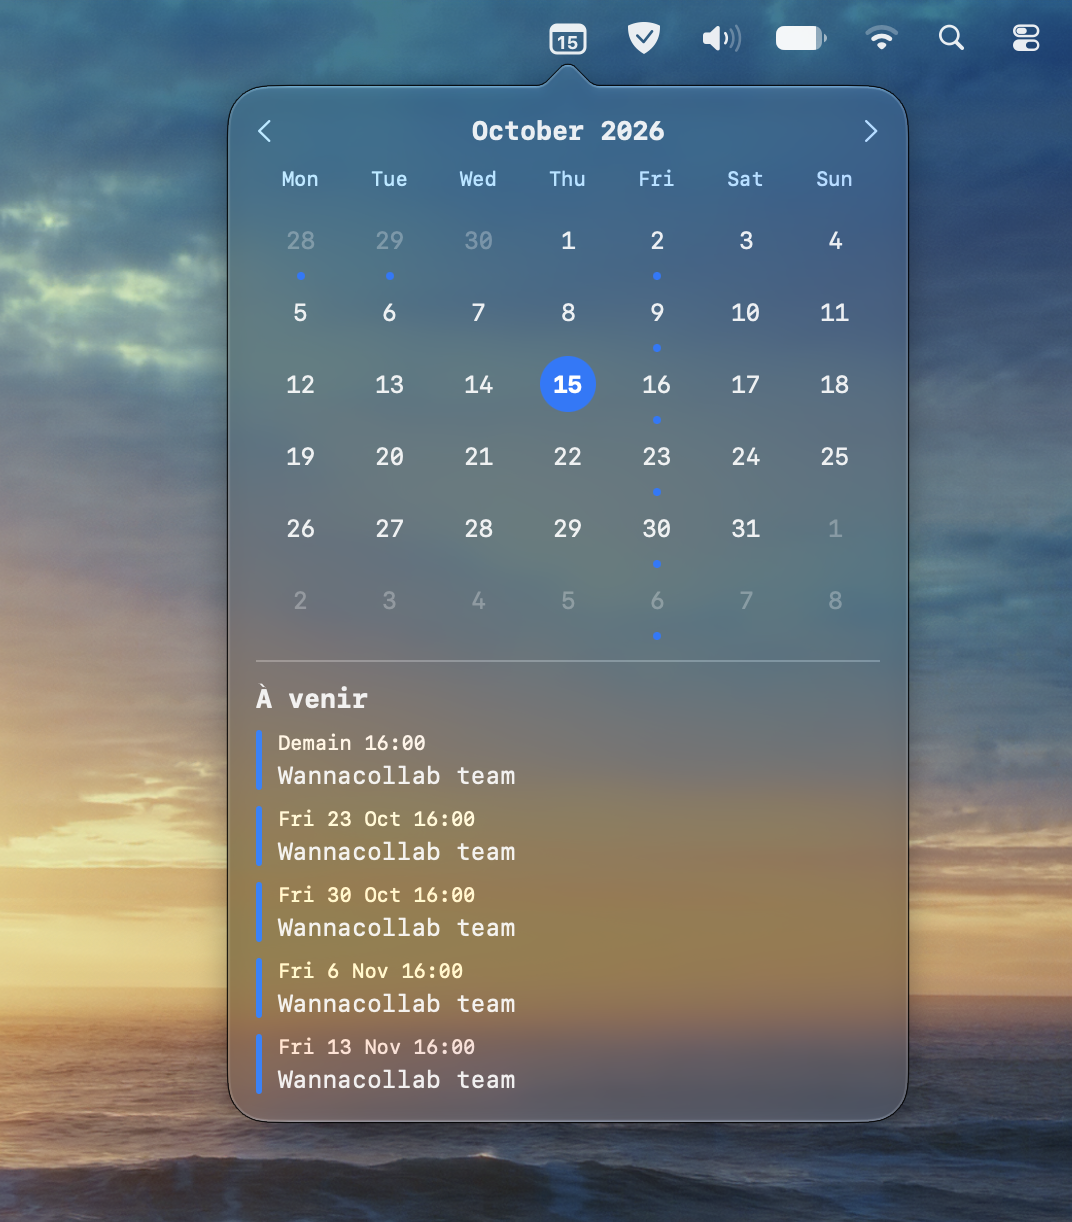
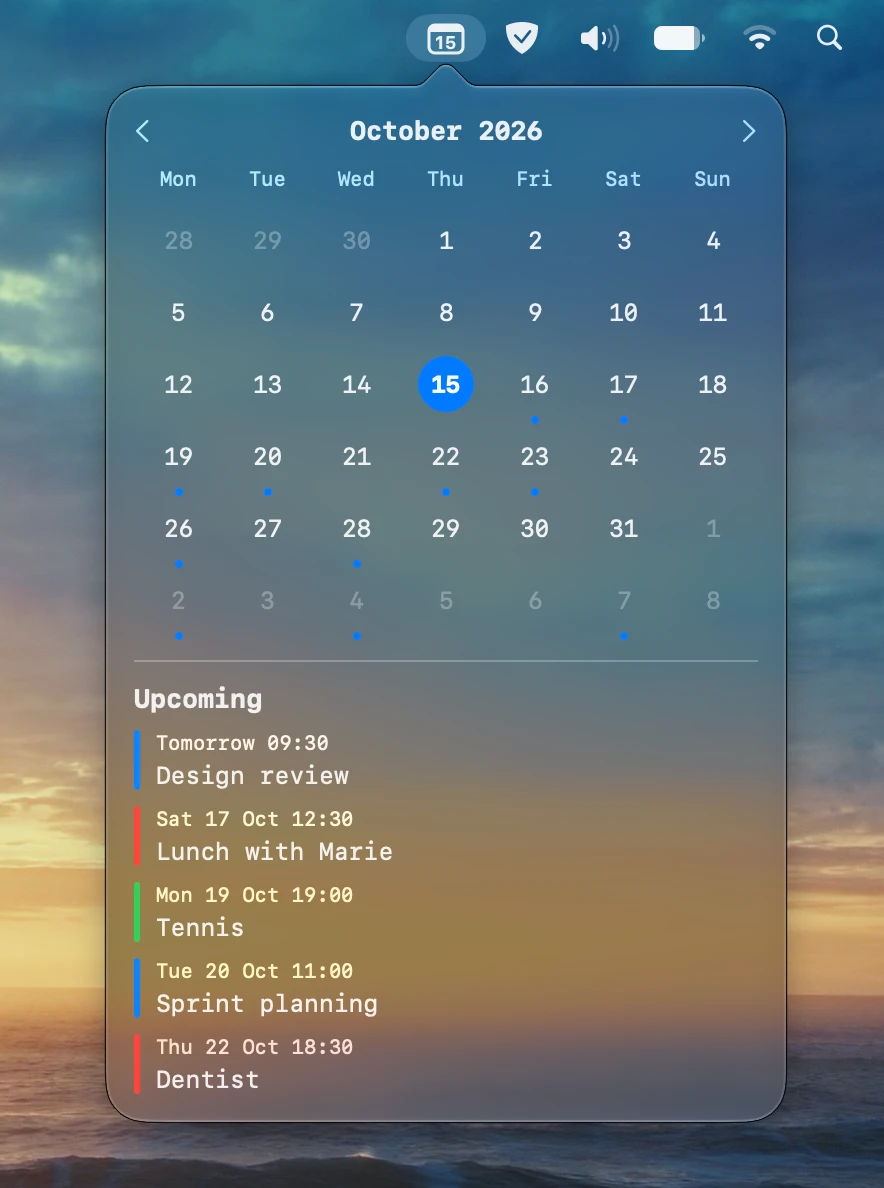
App UI in English; README screenshot with demo data

diff --git a/Sources/main.swift b/Sources/main.swift
@@ -70,20 +70,20 @@ final class AppDelegate: NSObject, NSApplicationDelegate, NSPopoverDelegate {
         let menu = NSMenu()
         let feeds = FeedStore.load()
         if feeds.isEmpty {
-            menu.addItem(NSMenuItem(title: "Aucun agenda", action: nil, keyEquivalent: ""))
+            menu.addItem(NSMenuItem(title: "No calendars", action: nil, keyEquivalent: ""))
         }
         for f in feeds {
-            let item = NSMenuItem(title: "Retirer « \(f.name.isEmpty ? f.url : f.name) »", action: #selector(removeFeed(_:)), keyEquivalent: "")
+            let item = NSMenuItem(title: "Remove “\(f.name.isEmpty ? f.url : f.name)”", action: #selector(removeFeed(_:)), keyEquivalent: "")
             item.representedObject = f.url
             item.target = self
             item.image = swatch(f.colorHex)
             menu.addItem(item)
         }
         menu.addItem(.separator())
-        menu.addItem(withTitle: "Ajouter un agenda iCal…", action: #selector(addFeed), keyEquivalent: "").target = self
-        menu.addItem(withTitle: "Actualiser", action: #selector(refreshNow), keyEquivalent: "r").target = self
+        menu.addItem(withTitle: "Add an iCal calendar…", action: #selector(addFeed), keyEquivalent: "").target = self
+        menu.addItem(withTitle: "Refresh", action: #selector(refreshNow), keyEquivalent: "r").target = self
         menu.addItem(.separator())
-        menu.addItem(withTitle: "Quitter", action: #selector(NSApplication.terminate(_:)), keyEquivalent: "q")
+        menu.addItem(withTitle: "Quit", action: #selector(NSApplication.terminate(_:)), keyEquivalent: "q")
         return menu
     }
 
@@ -102,7 +102,7 @@ final class AppDelegate: NSObject, NSApplicationDelegate, NSPopoverDelegate {
     private func refresh(force: Bool) {
         if !force, Date().timeIntervalSince(lastRefresh) < 30 { return }
         let feeds = FeedStore.load()
-        guard !feeds.isEmpty else { model.status = "Aucun agenda : clic droit → Ajouter un agenda iCal…"; return }
+        guard !feeds.isEmpty else { model.status = "No calendars: right-click → Add an iCal calendar…"; return }
         lastRefresh = Date()
         model.isLoading = true
         let range = model.fetchRange
@@ -119,8 +119,8 @@ final class AppDelegate: NSObject, NSApplicationDelegate, NSPopoverDelegate {
     @objc private func addFeed() {
         NSApp.activate(ignoringOtherApps: true)
         let alert = NSAlert()
-        alert.messageText = "Ajouter un agenda iCal"
-        alert.informativeText = "Google Agenda → Paramètres → l'agenda → « Adresse secrète au format iCal ». Colle l'URL ici (⌘V). Elle est stockée dans ton Trousseau."
+        alert.messageText = "Add an iCal calendar"
+        alert.informativeText = "Google Calendar → Settings → your calendar → “Secret address in iCal format”. Paste the URL here (⌘V). It is stored in your Keychain."
         let box = NSStackView(frame: NSRect(x: 0, y: 0, width: 440, height: 88))
         box.orientation = .vertical
         box.alignment = .leading
@@ -128,7 +128,7 @@ final class AppDelegate: NSObject, NSApplicationDelegate, NSPopoverDelegate {
         let urlField = NSTextField(frame: NSRect(x: 0, y: 0, width: 440, height: 24))
         urlField.placeholderString = "https://calendar.google.com/calendar/ical/…/basic.ics"
         let nameField = NSTextField(frame: NSRect(x: 0, y: 0, width: 440, height: 24))
-        nameField.placeholderString = "Nom (facultatif, sinon celui du flux)"
+        nameField.placeholderString = "Name (optional, defaults to the feed’s)"
         let colorPopup = NSPopUpButton(frame: NSRect(x: 0, y: 0, width: 160, height: 24), pullsDown: false)
         for c in FeedColor.allCases {
             colorPopup.addItem(withTitle: c.rawValue)
@@ -139,16 +139,16 @@ final class AppDelegate: NSObject, NSApplicationDelegate, NSPopoverDelegate {
         urlField.widthAnchor.constraint(equalToConstant: 440).isActive = true
         nameField.widthAnchor.constraint(equalToConstant: 440).isActive = true
         alert.accessoryView = box
-        alert.addButton(withTitle: "Ajouter")
-        alert.addButton(withTitle: "Annuler")
+        alert.addButton(withTitle: "Add")
+        alert.addButton(withTitle: "Cancel")
         alert.window.initialFirstResponder = urlField
         guard alert.runModal() == .alertFirstButtonReturn else { return }
         var urlString = urlField.stringValue.trimmingCharacters(in: .whitespacesAndNewlines)
         if urlString.hasPrefix("webcal://") { urlString = "https://" + urlString.dropFirst("webcal://".count) }
-        guard let url = URL(string: urlString), url.scheme?.hasPrefix("http") == true else { self.alert("URL invalide"); return }
+        guard let url = URL(string: urlString), url.scheme?.hasPrefix("http") == true else { self.alert("Invalid URL"); return }
         let color = FeedColor.allCases[max(colorPopup.indexOfSelectedItem, 0)]
         let feed = Feed(name: nameField.stringValue.trimmingCharacters(in: .whitespacesAndNewlines), url: urlString, colorHex: color.hex)
-        guard FeedStore.add(feed) else { self.alert("Impossible d'enregistrer dans le Trousseau"); return }
+        guard FeedStore.add(feed) else { self.alert("Could not save to the Keychain"); return }
         refresh(force: true)
     }
 
@@ -167,12 +167,12 @@ final class AppDelegate: NSObject, NSApplicationDelegate, NSPopoverDelegate {
     /// LSUIElement apps have no main menu, so ⌘V/⌘C/⌘A do nothing in dialogs unless we install an Edit menu.
     private func installEditMenu() {
         let main = NSMenu()
-        let editItem = NSMenuItem(title: "Édition", action: nil, keyEquivalent: "")
-        let edit = NSMenu(title: "Édition")
-        edit.addItem(withTitle: "Couper", action: #selector(NSText.cut(_:)), keyEquivalent: "x")
-        edit.addItem(withTitle: "Copier", action: #selector(NSText.copy(_:)), keyEquivalent: "c")
-        edit.addItem(withTitle: "Coller", action: #selector(NSText.paste(_:)), keyEquivalent: "v")
-        edit.addItem(withTitle: "Tout sélectionner", action: #selector(NSText.selectAll(_:)), keyEquivalent: "a")
+        let editItem = NSMenuItem(title: "Edit", action: nil, keyEquivalent: "")
+        let edit = NSMenu(title: "Edit")
+        edit.addItem(withTitle: "Cut", action: #selector(NSText.cut(_:)), keyEquivalent: "x")
+        edit.addItem(withTitle: "Copy", action: #selector(NSText.copy(_:)), keyEquivalent: "c")
+        edit.addItem(withTitle: "Paste", action: #selector(NSText.paste(_:)), keyEquivalent: "v")
+        edit.addItem(withTitle: "Select All", action: #selector(NSText.selectAll(_:)), keyEquivalent: "a")
         editItem.submenu = edit
         main.addItem(editItem)
         NSApp.mainMenu = main

diff --git a/Sources/CalendarView.swift b/Sources/CalendarView.swift
@@ -113,10 +113,10 @@ struct CalendarView: View {
 
     private var upcomingList: some View {
         VStack(alignment: .leading, spacing: 8) {
-            Text("À venir").font(.system(.headline, design: .monospaced))
+            Text("Upcoming").font(.system(.headline, design: .monospaced))
             let items = model.upcoming
             if items.isEmpty {
-                Text("Aucun événement à venir").foregroundStyle(.secondary).font(.system(.callout, design: .monospaced))
+                Text("No upcoming events").foregroundStyle(.secondary).font(.system(.callout, design: .monospaced))
             } else {
                 ForEach(items) { e in eventRow(e, showDay: true) }
             }
@@ -128,12 +128,12 @@ struct CalendarView: View {
             HStack {
                 Text(Fmt.dayTitle(day).capitalized).font(.system(.headline, design: .monospaced))
                 Spacer()
-                Button("À venir") { model.selectedDay = nil }.buttonStyle(.borderless)
+                Button("Upcoming") { model.selectedDay = nil }.buttonStyle(.borderless)
                     .font(.system(.caption, design: .monospaced))
             }
             let items = model.dayEvents(day)
             if items.isEmpty {
-                Text("Aucun événement").foregroundStyle(.secondary).font(.system(.callout, design: .monospaced))
+                Text("No events").foregroundStyle(.secondary).font(.system(.callout, design: .monospaced))
             } else {
                 ScrollView {
                     VStack(alignment: .leading, spacing: 8) {
@@ -146,7 +146,7 @@ struct CalendarView: View {
     }
 
     private func eventRow(_ e: CalendarEvent, showDay: Bool) -> some View {
-        let when = [showDay ? Fmt.relativeDay(e.start) : nil, e.isAllDay ? "Journée" : Fmt.time(e.start)]
+        let when = [showDay ? Fmt.relativeDay(e.start) : nil, e.isAllDay ? "All day" : Fmt.time(e.start)]
             .compactMap { $0 }.joined(separator: " ")
         return HStack(alignment: .top, spacing: 8) {
             RoundedRectangle(cornerRadius: 1.5).fill(color(e.colorHex)).frame(width: 3)

diff --git a/Sources/Feeds.swift b/Sources/Feeds.swift
@@ -21,7 +21,7 @@ struct Feed: Codable, Equatable, Identifiable {
 
 /// Named colors offered in the "add calendar" dialog, mapped to macOS system colors.
 enum FeedColor: String, CaseIterable {
-    case blue = "Bleu", green = "Vert", red = "Rouge", orange = "Orange", yellow = "Jaune", purple = "Violet", pink = "Rose", teal = "Turquoise", gray = "Gris"
+    case blue = "Blue", green = "Green", red = "Red", orange = "Orange", yellow = "Yellow", purple = "Purple", pink = "Pink", teal = "Teal", gray = "Gray"
 
     var hex: String {
         switch self {
@@ -100,7 +100,7 @@ final class FeedFetcher {
         var result = Result()
         let lock = NSLock()
         for feed in feeds {
-            guard let url = URL(string: feed.url) else { result.errors.append("\(feed.name) : URL invalide"); continue }
+            guard let url = URL(string: feed.url) else { result.errors.append("\(feed.name) : invalid URL"); continue }
             group.enter()
             var req = URLRequest(url: url)
             req.timeoutInterval = 30
@@ -109,7 +109,7 @@ final class FeedFetcher {
                 defer { group.leave() }
                 lock.lock(); defer { lock.unlock() }
                 if let err = err { result.errors.append("\(feed.name) : \(err.localizedDescription)"); return }
-                guard let http = resp as? HTTPURLResponse, let data = data else { result.errors.append("\(feed.name) : réponse vide"); return }
+                guard let http = resp as? HTTPURLResponse, let data = data else { result.errors.append("\(feed.name) : empty response"); return }
                 guard (200..<300).contains(http.statusCode) else { result.errors.append("\(feed.name) : HTTP \(http.statusCode)"); return }
                 guard let text = String(data: data, encoding: .utf8) ?? String(data: data, encoding: .isoLatin1) else {
                     result.errors.append("\(feed.name) : encodage illisible"); return

diff --git a/Tests/main.swift b/Tests/main.swift
@@ -127,7 +127,7 @@ let now22 = date(2026, 9, 22, 12, 0)
 let up = EventIndex.upcoming(occ, now: now22, limit: 3)
 check(up.map(\.title) == ["Anniv", "Dej Camille, resto", "Séminaire"], "à venir : journée entière en cours d'abord, puis par heure — \(up.map(\.title))")
 check(EventIndex.upcoming(occ + occ, now: now22).count == EventIndex.upcoming(occ, now: now22).count, "doublons dédupliqués")
-check(Fmt.relativeDay(date(2026, 9, 22, 18), now: now22, calendarSystem: cal) == "Aujourd'hui" && Fmt.relativeDay(date(2026, 9, 23), now: now22, calendarSystem: cal) == "Demain", "Aujourd'hui / Demain")
+check(Fmt.relativeDay(date(2026, 9, 22, 18), now: now22, calendarSystem: cal) == "Today" && Fmt.relativeDay(date(2026, 9, 23), now: now22, calendarSystem: cal) == "Tomorrow", "Today / Tomorrow")
 check(Fmt.weekdaySymbols(locale: Locale(identifier: "fr_FR")).first?.hasPrefix("lun") == true, "semaine commence lundi")
 
 // MARK: Feed helpers

diff --git a/Sources/Models.swift b/Sources/Models.swift
@@ -80,10 +80,10 @@ enum Fmt {
     static func time(_ d: Date) -> String {
         let f = DateFormatter(); f.dateFormat = "HH:mm"; return f.string(from: d)
     }
-    /// "Aujourd'hui", "Demain", else "mer. 23 sept."
+    /// "Today", "Tomorrow", else "mer. 23 sept."
     static func relativeDay(_ d: Date, now: Date = Date(), calendarSystem cal: Calendar = .current, locale: Locale = .current) -> String {
-        if cal.isDate(d, inSameDayAs: now) { return "Aujourd'hui" }
-        if let t = cal.date(byAdding: .day, value: 1, to: now), cal.isDate(d, inSameDayAs: t) { return "Demain" }
+        if cal.isDate(d, inSameDayAs: now) { return "Today" }
+        if let t = cal.date(byAdding: .day, value: 1, to: now), cal.isDate(d, inSameDayAs: t) { return "Tomorrow" }
         let f = DateFormatter(); f.locale = locale; f.setLocalizedDateFormatFromTemplate("EEEdMMM"); return f.string(from: d)
     }
     /// "mardi 22 septembre"

diff --git a/README.md b/README.md
@@ -7,7 +7,7 @@ popover with the month (a dot under busy days) and the next five events,
 pulled from your Google calendars through their iCal feeds. Native macOS
 look (accent color, light/dark).
 
-<img src="screenshots/popover.png" width="536" alt="Popover">
+<img src="screenshots/popover.png" width="442" alt="Popover">
 
 ## Install
 
